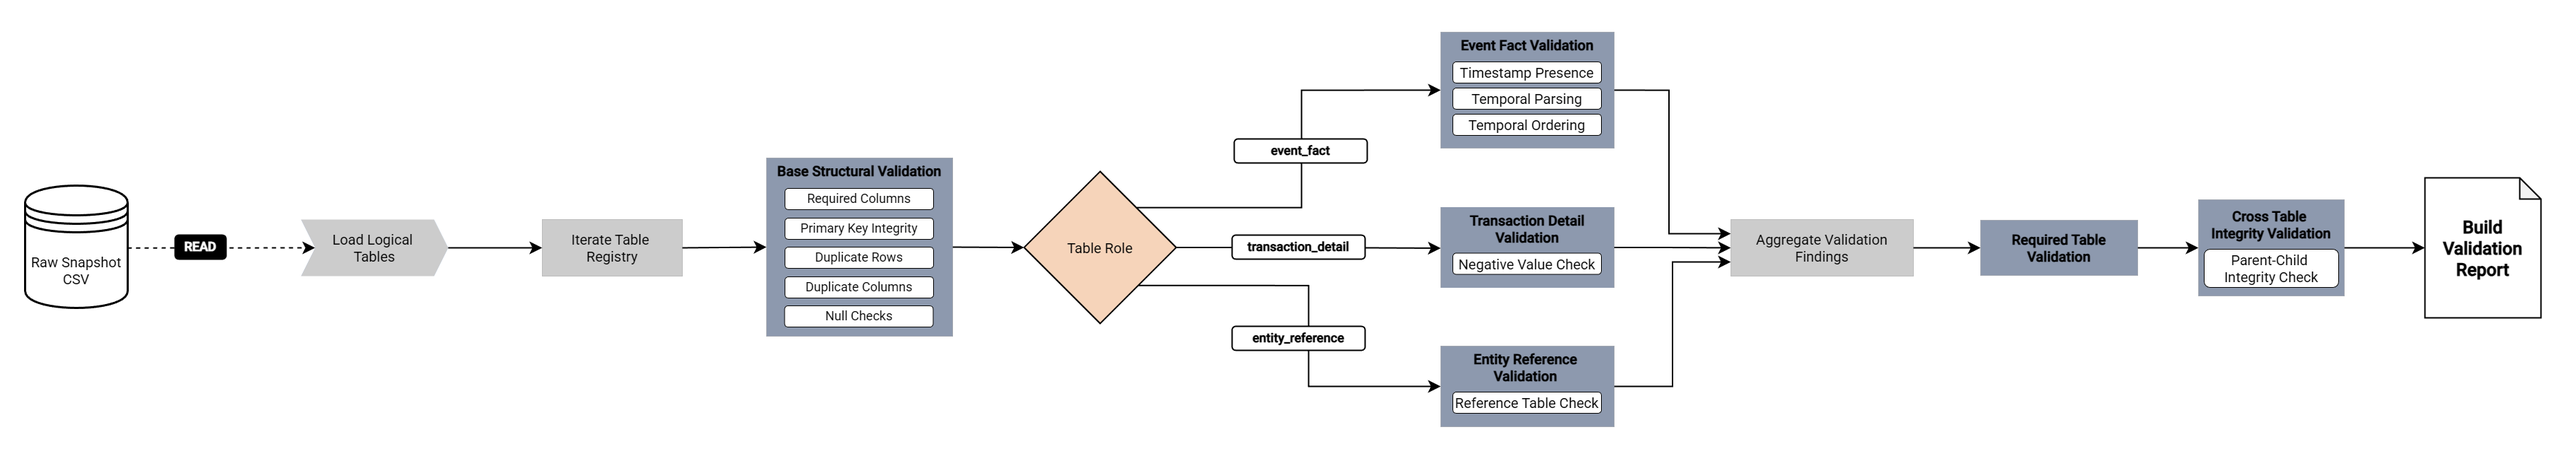
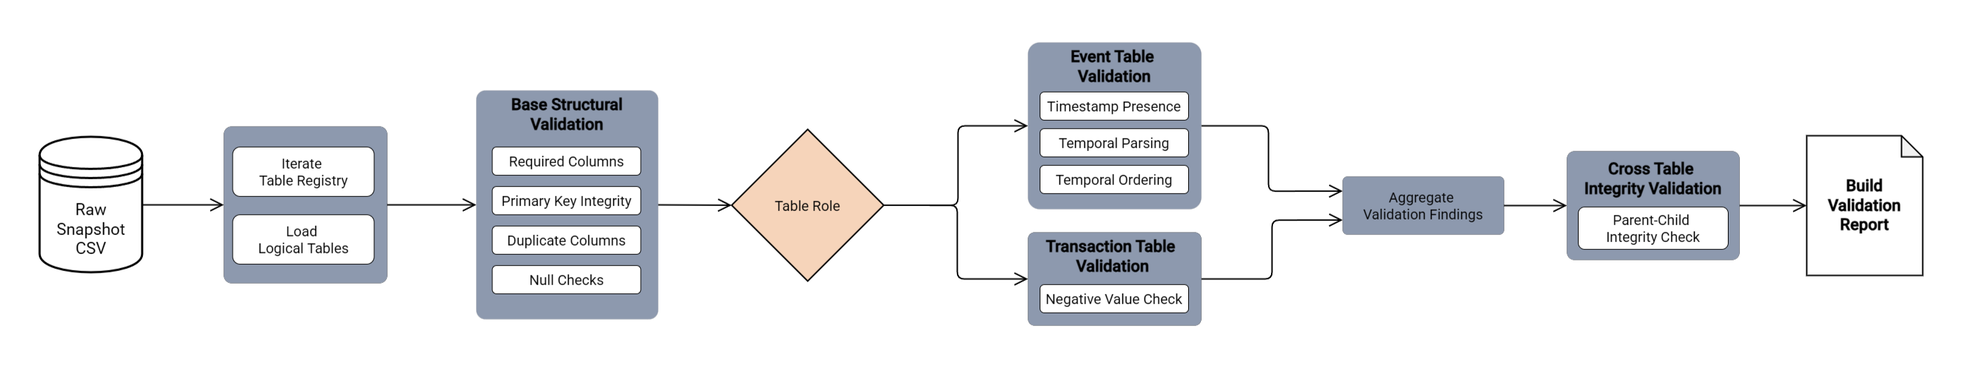
docs: update stages documentation and diagram with the refactoring

diff --git a/docs/data_pipeline/semantic_stage.md b/docs/data_pipeline/semantic_stage.md
@@ -7,6 +7,8 @@
 
 **Role:** Analytical Module Construction.
 
+![semantic-stage-diagram](/assets/diagrams/05-semantic-stage-diagram.png)
+
 ## **System Contract**
 
 **Purpose**
@@ -15,7 +17,6 @@ Transforms the unified Gold-layer "Order-Grain" event table into entity-centric 
 
 **Invariants**
 
-* **Lineage Integrity:** Strictly enforces that all data within a builder execution belongs to a single `run_id`. Cross-run data contamination triggers a terminal failure.
 * **Temporal Grain:** All fact tables are aggregated at the ISO-Week level, aligned deterministically to the Monday of each week (`W-MON`).
 * **Entity Grain:** 
     * **Fact Tables:** Strictly 1 row per `(Entity_ID, order_year_week)`.
@@ -46,6 +47,13 @@ The **Executor** coordinates the semantic build through a modular, registry-driv
     *   **Optimization:** Utilizes `sink_parquet` for `LazyFrame` exports, ensuring zero-copy streaming and constant memory usage.
 6.  **Memory Management:** Explicitly deletes `LazyFrames` and triggers `gc.collect()` after every individual table export (Fact and Dim) to purge intermediate memory usage.
 
+## **Optimization & Memory Invariants**
+
+* **Local Categorical Aggregation:** To optimize memory during grouping operations, builders cast high-cardinality grouping keys (e.g., `seller_id`) to `pl.Categorical` locally. This creates a temporary, localized dictionary optimized specifically for that module's aggregation plan, bypassing the need for a persistent global string cache.
+* **Narrow Aggregation Payloads:** All aggregation results (counts, sums) are immediately cast to `Int16` or `Float32` within the `agg()` block. This prevents the materialized result set from expanding in memory.
+* **Schema Hand-off:** While the building process uses `Categorical` for performance, the final output is cast back to `pl.String()` via the registry/freezing process. This ensures downstream compatibility with BI tools and prevents "dictionary leakage" between pipeline runs.
+* **Streaming Export:** `sink_parquet()` is utilized for all fact and dimension table exports, enabling zero-copy streaming of results directly from the query plan to storage.
+
 ## **Boundaries**
 
 | This component **DOES** | This component **DOES NOT** |
@@ -64,6 +72,4 @@ The **Executor** coordinates the semantic build through a modular, registry-driv
 * **Registry Mismatch:** If a builder returns a table name not defined in the `SEMANTIC_MODULES` registry, the executor raises a `RuntimeError`.
 
 ### **Functional Findings (Data Level)**
-* **Lineage Violation:** If the source data contains more than one `run_id`, the logic builders raise a `RuntimeError` to prevent multi-run pollution. This is trapped by the executor.
-* **Grain Breach:** If a builder produces duplicate rows for the defined primary grain (e.g., multiple rows for the same Seller/Week), the validation step raises a `RuntimeError`, which is trapped.
 * **Schema Violation:** If a required column defined in the registry is missing from the builder's output, the freeze step raises a `KeyError` or `RuntimeError`, which is trapped.

diff --git a/docs/data_pipeline/assembly_stage.md b/docs/data_pipeline/assembly_stage.md
@@ -6,6 +6,8 @@
 
 **Role:** Data Integration and Analytical Flattening.
 
+![assembled-stage-diagram](/assets/diagrams/04-assemble-stage-diagram.png)
+
 ## **System Contract**
 
 **Purpose**
@@ -46,6 +48,13 @@ The **Executor** coordinates two distinct sub-orchestrations:
 2.  **Deduplication:** Extracts the required column subset and drops duplicate primary keys.
 3.  **Export:** Persists each dimension (e.g., `df_customers`) as an independent artifact.
 
+## **Optimization & Memory Invariants**
+
+* **Primitive Integer Pipeline:** To operate within 4GB RAM, the pipeline converts 36-byte UUID strings into 8-byte `UInt64` hashes for joins, and 4-byte `UInt32` categoricals for payloads. This is the primary driver of memory efficiency for 36M+ row datasets.
+* **Streaming-First Join:** By deferring aggregations until after raw joins on `order_id`, we leverage Polars' streaming engine to avoid massive, materialized hash tables.
+* **Low-Level Memory Reclamation:** The executor utilizes `ctypes.CDLL('libc.so.6').malloc_trim(0)` at high-water mark transitions. This forces the Linux allocator to release free memory back to the OS, preventing Cloud Run from terminating the process due to bloated (but unused) heap memory.
+* **Zero-Copy Streaming:** `sink_parquet()` is used to prevent the pipeline from fully materializing the assembly result set in memory.
+
 ## **Boundaries**
 
 | This component **DOES** | This component **DOES NOT** |
@@ -66,6 +75,4 @@ The **Executor** coordinates two distinct sub-orchestrations:
 * **Export Failure:** Disk I/O errors or path resolution issues during the `export_file` call halt the lifecycle.
 
 ### **Functional Findings (Data Level)**
-* **Cardinality Explosion:** If `merge_data` detects multiple rows for a single `order_id`, it raises a `RuntimeError`. This is caught by the `task_wrapper` and treated as a fatal violation.
-* **Reference Duplication:** If a dimension table contains duplicate primary keys after extraction, it raises a `RuntimeError` which is trapped by the `task_wrapper`.
 * **Partial Payments:** Orders without payments are allowed (via Left Join); the system fills these with `None/NaN`, which is considered a valid business state rather than a failure.

diff --git a/docs/terraform/gcp-iac.md b/docs/terraform/gcp-iac.md
@@ -64,7 +64,7 @@ This project implements **Zero Trust** via Workload Identity Federation and gran
 ### 2. Permission Bindings
 | Identity | Target | Roles | Rationale |
 | :--- | :--- | :--- | :--- |
-| **Github Deployer** | Project | `run.developer`, `workflows.editor`, `cloudscheduler.admin`, `artifactregistry.admin`, `eventarc.admin`, `storage.admin`, `resourcemanager.projectIamAdmin`, `iam.workloadIdentityPoolAdmin`, `monitoring.admin`, `iam.serviceAccounts.getIamPolicy`, `iam.serviceAccountUser` | **Least Privilege:** Granular roles for managing the entire pipeline lifecycle, IAM bindings, and state management. |
+| **Github Deployer** | Project | `run.developer`, `workflows.editor`, `cloudscheduler.admin`, `artifactregistry.admin`, `eventarc.admin`, `storage.admin`, `resourcemanager.projectIamAdmin`, `iam.workloadIdentityPoolAdmin`, `monitoring.admin`, `iam.serviceAccountAdmin`, `iam.serviceAccountUser`, `iam.admin` | **Least Privilege:** Granular roles for managing the entire pipeline lifecycle, IAM bindings, and state management. |
 | **Drive Extractor** | Archival/Pipeline Buckets | `roles/storage.objectAdmin` | Full CRUD for data landing and archival. |
 | **Ops Pipeline** | Pipeline Bucket | `roles/storage.objectAdmin` | Read raw data and write processed artifacts. |
 | **Event Invoker** | Project | `roles/eventarc.eventReceiver` | Receive GCS notifications. |

diff --git a/docs/data_pipeline/validation_stage.md b/docs/data_pipeline/validation_stage.md
@@ -6,6 +6,8 @@
 
 **Role:** Structural Data Quality Gatekeeper.
 
+![validation-stage-diagram](/assets/diagrams/02-validation-stage-diagram.png)
+
 ## **System Contract**
 
 **Purpose** 
@@ -35,7 +37,7 @@ The **Executor** coordinates the validation lifecycle through the following dete
 2.  **Data Loading:** Attempts to load each table as a DataFrame. If a table is missing, an `error` is logged to the report.
 3.  **Base Validation:** Dispatches the DataFrame to `run_base_validations` to check for:
     * Presence of required columns.
-    * Uniqueness of Primary Keys.
+    * Uniqueness of Primary Keys and column names.
     * Compliance with non-nullable constraints.
 4.  **Role-Specific Dispatch:** If base validations pass, the executor applies specialized rules:
     * `event_fact`: Triggers `run_event_fact_validations` (temporal chronology).

diff --git a/docs/data_pipeline/pipeline_orchestrator.md b/docs/data_pipeline/pipeline_orchestrator.md
@@ -4,6 +4,8 @@
 
 **Role:** End-to-End Lifecycle, Resource, and Persistence Manager.
 
+![pipeline-orchestration-diagram](/assets/diagrams/01-pipeline-orchestration-diagram.png)
+
 ## **System Contract**
 
 **Purpose**

diff --git a/docs/data_pipeline/contract_stage.md b/docs/data_pipeline/contract_stage.md
@@ -7,6 +7,8 @@
 
 **Role:** Structural Enforcement and Subtractive Filtering.
 
+![contract-stage-diagram](/assets/diagrams/03-contract-stage-diagram.png)
+
 ## **System Contract**
 
 **Purpose**
